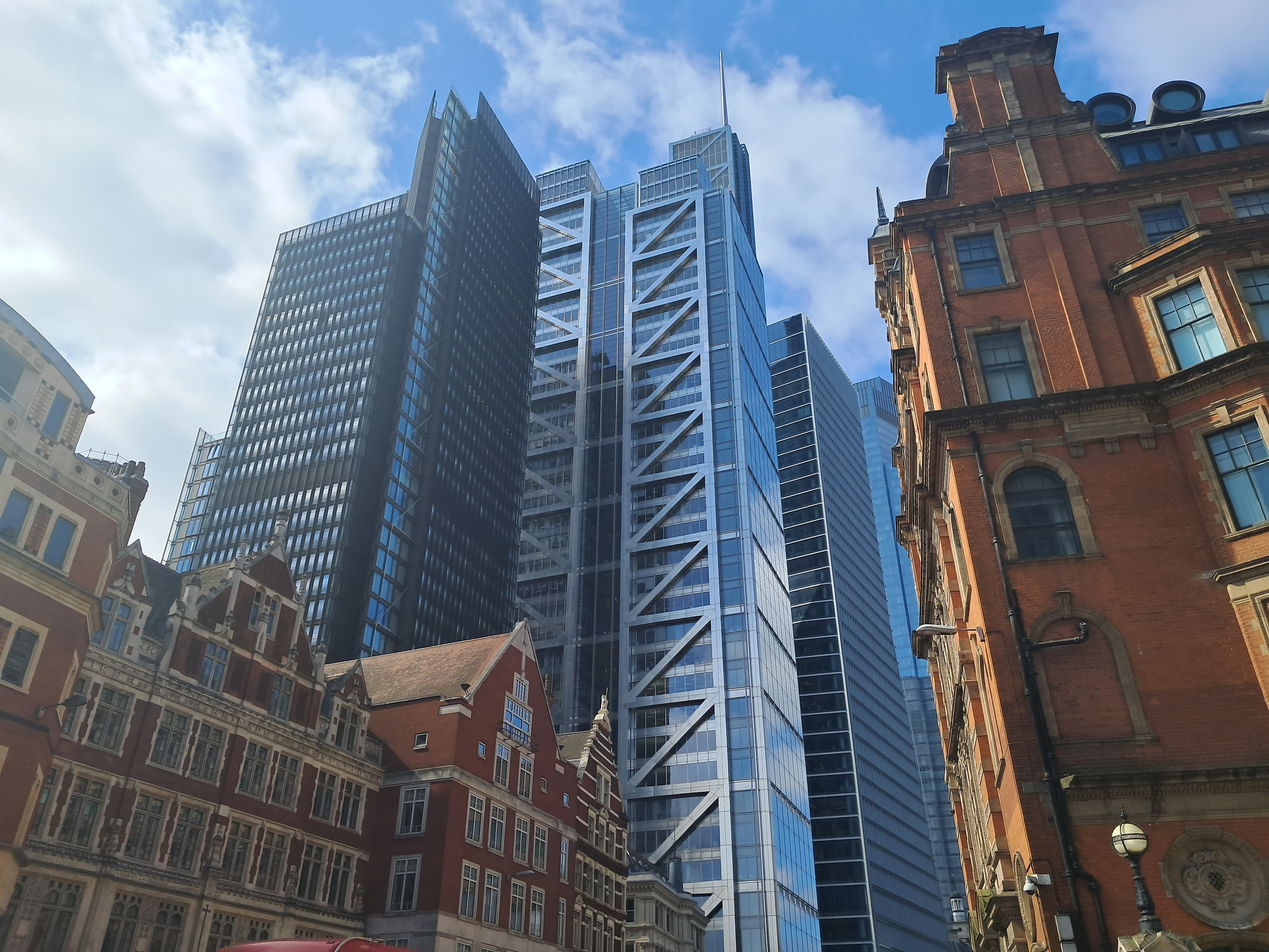
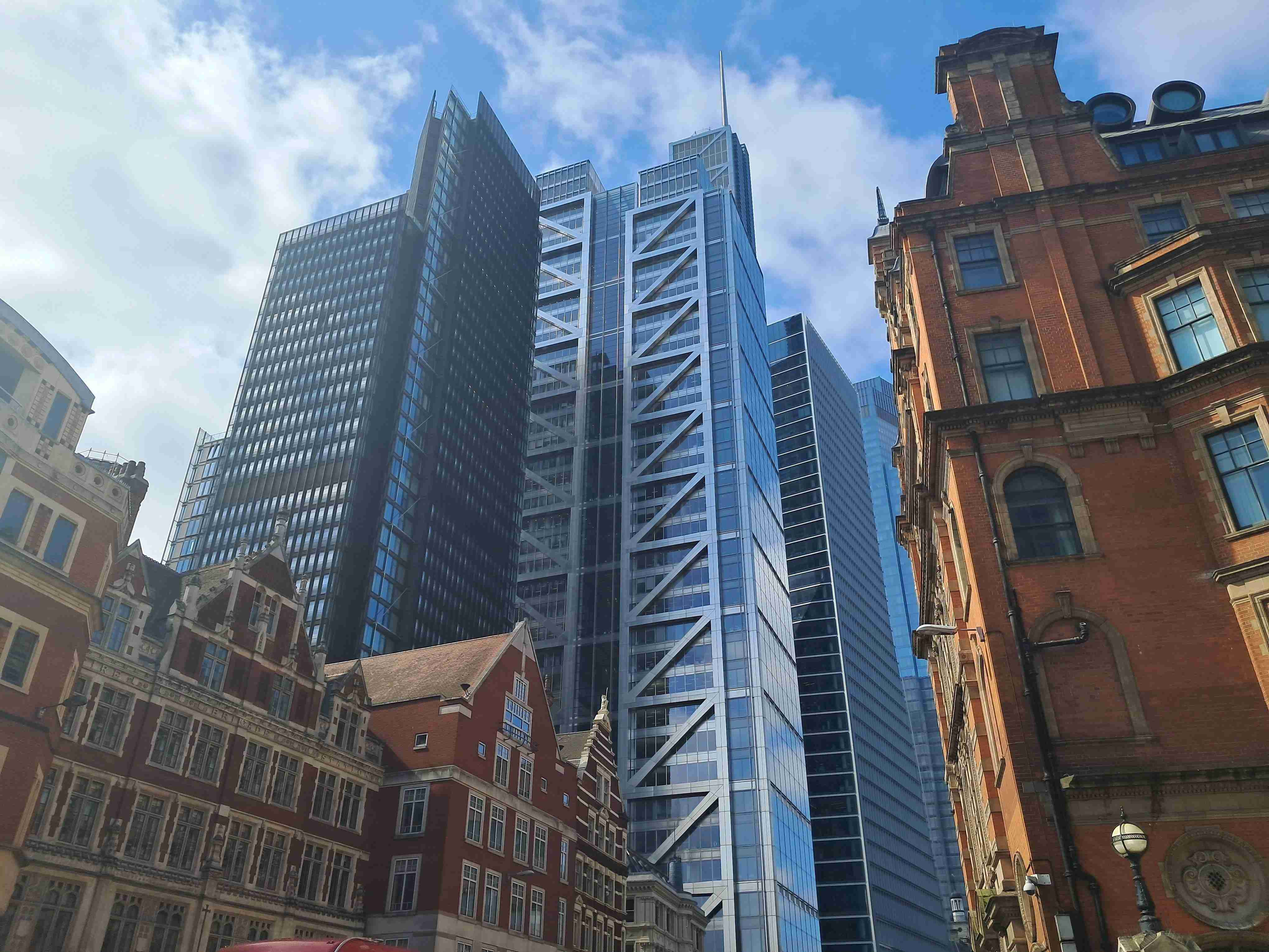
Text Justification Image Compression

Changed region(s): [[0.7471, 0.8072, 0.7782, 0.8382]]

diff --git a/_sass/minima/_base.scss b/_sass/minima/_base.scss
@@ -13,6 +13,10 @@ dl, dd, ol, ul, figure {
 
 }
 
+p {
+  text-align: justify;
+  text-justify: distribute-all-lines;
+}
 
 
 /**

diff --git a/_posts/2023-05-29-london_leisure_and_green_areas.md b/_posts/2023-05-29-london_leisure_and_green_areas.md
@@ -31,11 +31,11 @@ After visiting The Imperial College and The Science Museum I fortunately found a
 
 Imagine you had a problem with something in your country: the politics, high taxation of the poor, or how the government is unable to resolve the immigration crisis. Speaker's Corner offered every attendee a right to speak publicly about *almost* everything - as long as you have something to stand on. The photo below shows a man standing atop the ladder, claiming his right to challenge his opinions.
 
-![Man standing on the speakers corner](/assets/images/london_leisure_and_green_areas/speakers_corner.png)
+![Man standing on the speakers corner](/assets/images/london_leisure_and_green_areas/speakers_corner.jpg)
 
 #### The Prince's Gardens
 
-![The Prince's Gardens](/assets/images/london_leisure_and_green_areas/princes_gardens.png)
+![The Prince's Gardens](/assets/images/london_leisure_and_green_areas/princes_gardens.jpg)
 
 While we are waiting for my friend to join us, take a look at another precious building I've found in Mayfair. The architect had an interesting point of connecting nature with modern glass and metal, and I think he succeded in keeping it in phase with the other elevations. A more nature-oriented neighborhood by Hunderwasser can be seen in Vienna.
 
